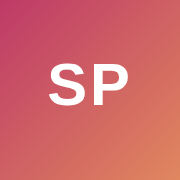
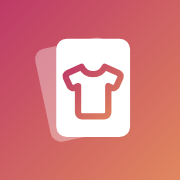
Nová ikona appky (karta s tričkom) namiesto „SP“
Ikona na plochu telefónu, v prehliadači, logo v hlavičke, na
prihlásení, v registrácii aj na úvodnej obrazovke.

Claude-Session: https://claude.ai/code/session_018RBrwWEP8K8rGiV36PSwDF

Changed region(s): [[0.1944, 0.1944, 0.7222, 0.8056]]

diff --git a/public/style.css b/public/style.css
@@ -100,11 +100,7 @@ li + li { margin-top: 4px; }
   padding: 0 20px; display: flex; align-items: center; gap: 12px;
 }
 .brand { display: flex; align-items: center; gap: 10px; font-weight: 700; font-size: 1.02rem; letter-spacing: -.01em; margin-right: auto; white-space: nowrap; }
-.brand-mark {
-  width: 30px; height: 30px; border-radius: 9px; display: grid; place-items: center; flex: none;
-  background: linear-gradient(135deg, var(--accent), var(--accent-2)); color: #fff;
-  font-size: .72rem; font-weight: 800; letter-spacing: .04em;
-}
+.brand-mark { width: 30px; height: 30px; border-radius: 8px; flex: none; display: block; box-shadow: 0 2px 6px color-mix(in srgb, var(--accent) 30%, transparent); }
 .brand .badge { margin-left: 2px; }
 
 .tabs { display: flex; gap: 2px; padding: 4px; background: var(--surface-2); border-radius: 12px; }
@@ -405,7 +401,7 @@ dialog[open]::backdrop { animation: fade .25s ease both; }
           mask: radial-gradient(farthest-side, transparent calc(100% - 2.5px), #000 calc(100% - 2px));
   animation: spin .9s linear infinite; z-index: 1;
 }
-.loader-mark { font-weight: 800; font-size: .95rem; letter-spacing: .08em; color: var(--text); animation: breathe 1.8s ease-in-out infinite; }
+.loader-mark { width: 30px; height: 30px; border-radius: 8px; display: block; animation: breathe 1.8s ease-in-out infinite; }
 .splash-brand { font-size: .72rem; font-weight: 600; letter-spacing: .38em; text-transform: uppercase; color: var(--muted); padding-left: .38em; }
 
 #progress {
@@ -640,7 +636,7 @@ details.more[open] summary::before { transform: rotate(90deg); }
 .how .h-num { width: 32px; height: 32px; flex: none; border-radius: 10px; display: grid; place-items: center; font-weight: 800; font-size: .9rem; color: #fff; background: linear-gradient(135deg, var(--accent), var(--accent-2)); }
 .how b { display: block; }
 .how span { font-size: .87rem; color: var(--muted); }
-.hero-mark { width: 72px; height: 72px; border-radius: 22px; display: grid; place-items: center; margin-bottom: 22px; color: #fff; font-weight: 800; letter-spacing: .05em; font-size: 1.3rem;
+.hero-mark { width: 72px; height: 72px; border-radius: 18px; display: block; margin-bottom: 22px; color: #fff; font-weight: 800; letter-spacing: .05em; font-size: 1.3rem;
   background: linear-gradient(135deg, var(--accent), var(--accent-2)); box-shadow: 0 14px 34px color-mix(in srgb, var(--accent) 35%, transparent); animation: pop .5s var(--ease) both; }
 .big-input { font-size: 1.3rem !important; min-height: 58px !important; padding: 12px 16px !important; border-radius: 14px !important; font-weight: 600; }
 .pose { display: grid; grid-template-columns: 120px 1fr; gap: 16px; align-items: center; margin: 18px 0; padding: 16px; border-radius: 16px; background: var(--surface); border: 1px solid var(--line); }

diff --git a/public/index.html b/public/index.html
@@ -18,11 +18,11 @@
 <meta name="theme-color" content="#111113" media="(prefers-color-scheme: dark)">
 </head>
 <body>
-<div id="splash" aria-hidden="true"><div class="splash-inner"><div class="loader"><div class="loader-ring"></div><div class="loader-track"></div><span class="loader-mark">SP</span></div><div class="splash-brand">Style Picker</div></div></div>
+<div id="splash" aria-hidden="true"><div class="splash-inner"><div class="loader"><div class="loader-ring"></div><div class="loader-track"></div><img class="loader-mark" src="/icon.svg" alt=""></div><div class="splash-brand">Style Picker</div></div></div>
 <main class="narrow" style="padding-top:12vh">
   <div class="notice danger hidden" id="invalid" style="margin-bottom:16px">Tento osobný odkaz už neplatí. Požiadaj admina o nový.</div>
   <div class="card">
-    <div class="brand" style="margin-bottom:20px"><span class="brand-mark">SP</span>Style Picker</div>
+    <div class="brand" style="margin-bottom:20px"><img class="brand-mark" src="/icon.svg" alt="">Style Picker</div>
     <h1>Prihlásenie</h1>
     <p class="muted">Pre admina. Ak si dostal/a pozývací odkaz, otvor ten – alebo svoj osobný odkaz, ktorý si dostal/a po registrácii.</p>
     <div class="notice warn hidden" id="nopw" style="margin-bottom:12px">Admin heslo ešte nie je nastavené. Pridaj vo Verceli premennú <b>ADMIN_PASSWORD</b> a nasaď znova.</div>

diff --git a/public/admin.html b/public/admin.html
@@ -18,10 +18,10 @@
 <meta name="theme-color" content="#111113" media="(prefers-color-scheme: dark)">
 </head>
 <body>
-<div id="splash" aria-hidden="true"><div class="splash-inner"><div class="loader"><div class="loader-ring"></div><div class="loader-track"></div><span class="loader-mark">SP</span></div><div class="splash-brand">Style Picker</div></div></div>
+<div id="splash" aria-hidden="true"><div class="splash-inner"><div class="loader"><div class="loader-ring"></div><div class="loader-track"></div><img class="loader-mark" src="/icon.svg" alt=""></div><div class="splash-brand">Style Picker</div></div></div>
 <header class="topbar">
   <div class="topbar-inner">
-    <div class="brand"><span class="brand-mark">SP</span>Style Picker <span class="badge">admin</span></div>
+    <div class="brand"><img class="brand-mark" src="/icon.svg" alt="">Style Picker <span class="badge">admin</span></div>
     <div class="tabs-slot">
       <nav class="tabs" aria-label="Navigácia">
         <button class="tab active" data-tab="people"><svg viewBox="0 0 24 24" fill="none" stroke="currentColor" stroke-width="2" stroke-linecap="round" stroke-linejoin="round" aria-hidden="true"><path d="M16 21v-2a4 4 0 0 0-4-4H6a4 4 0 0 0-4 4v2"/><circle cx="9" cy="7" r="4"/><path d="M22 21v-2a4 4 0 0 0-3-3.9M16 3.1a4 4 0 0 1 0 7.8"/></svg><span>Ľudia</span></button>

diff --git a/public/app.html b/public/app.html
@@ -18,10 +18,10 @@
 <meta name="theme-color" content="#111113" media="(prefers-color-scheme: dark)">
 </head>
 <body>
-<div id="splash" aria-hidden="true"><div class="splash-inner"><div class="loader"><div class="loader-ring"></div><div class="loader-track"></div><span class="loader-mark">SP</span></div><div class="splash-brand">Style Picker</div></div></div>
+<div id="splash" aria-hidden="true"><div class="splash-inner"><div class="loader"><div class="loader-ring"></div><div class="loader-track"></div><img class="loader-mark" src="/icon.svg" alt=""></div><div class="splash-brand">Style Picker</div></div></div>
 <header class="topbar">
   <div class="topbar-inner">
-    <div class="brand"><span class="brand-mark">SP</span>Style Picker</div>
+    <div class="brand"><img class="brand-mark" src="/icon.svg" alt="">Style Picker</div>
     <div class="tabs-slot">
       <nav class="tabs" aria-label="Navigácia">
         <button class="tab active" data-tab="outfit"><svg viewBox="0 0 24 24" fill="none" stroke="currentColor" stroke-width="2" stroke-linecap="round" stroke-linejoin="round" aria-hidden="true"><path d="M20.4 3.5 16 2a4 4 0 0 1-8 0L3.6 3.5a2 2 0 0 0-1.3 2.2l.6 3.5a1 1 0 0 0 1 .8H6v10a2 2 0 0 0 2 2h8a2 2 0 0 0 2-2V10h2.1a1 1 0 0 0 1-.8l.6-3.5a2 2 0 0 0-1.3-2.2z"/></svg><span>Outfit</span></button>

diff --git a/public/join.html b/public/join.html
@@ -18,7 +18,7 @@
 <meta name="theme-color" content="#111113" media="(prefers-color-scheme: dark)">
 </head>
 <body>
-<div id="splash" aria-hidden="true"><div class="splash-inner"><div class="loader"><div class="loader-ring"></div><div class="loader-track"></div><span class="loader-mark">SP</span></div><div class="splash-brand">Style Picker</div></div></div>
+<div id="splash" aria-hidden="true"><div class="splash-inner"><div class="loader"><div class="loader-ring"></div><div class="loader-track"></div><img class="loader-mark" src="/icon.svg" alt=""></div><div class="splash-brand">Style Picker</div></div></div>
 <div class="wizard">
   <div class="wizard-top">
     <button class="icon-btn back" id="back" aria-label="Späť"></button>

diff --git a/public/join.js b/public/join.js
@@ -41,7 +41,7 @@ function tposeSvg(back) {
 
 function welcome(el) {
   el.append(
-    h('div.hero-mark', {}, 'SP'),
+    h('img.hero-mark', { src: '/icon.svg', alt: '' }),
     h('div.eyebrow', {}, 'Pozvánka'),
     h('h1', {}, 'Vitaj v Style Picker'),
     h('p.lead', {}, 'Niekto ti bude vyberať, čo si oblečieš. Ty len nahráš svoje oblečenie – zvyšok je na ňom.'),
